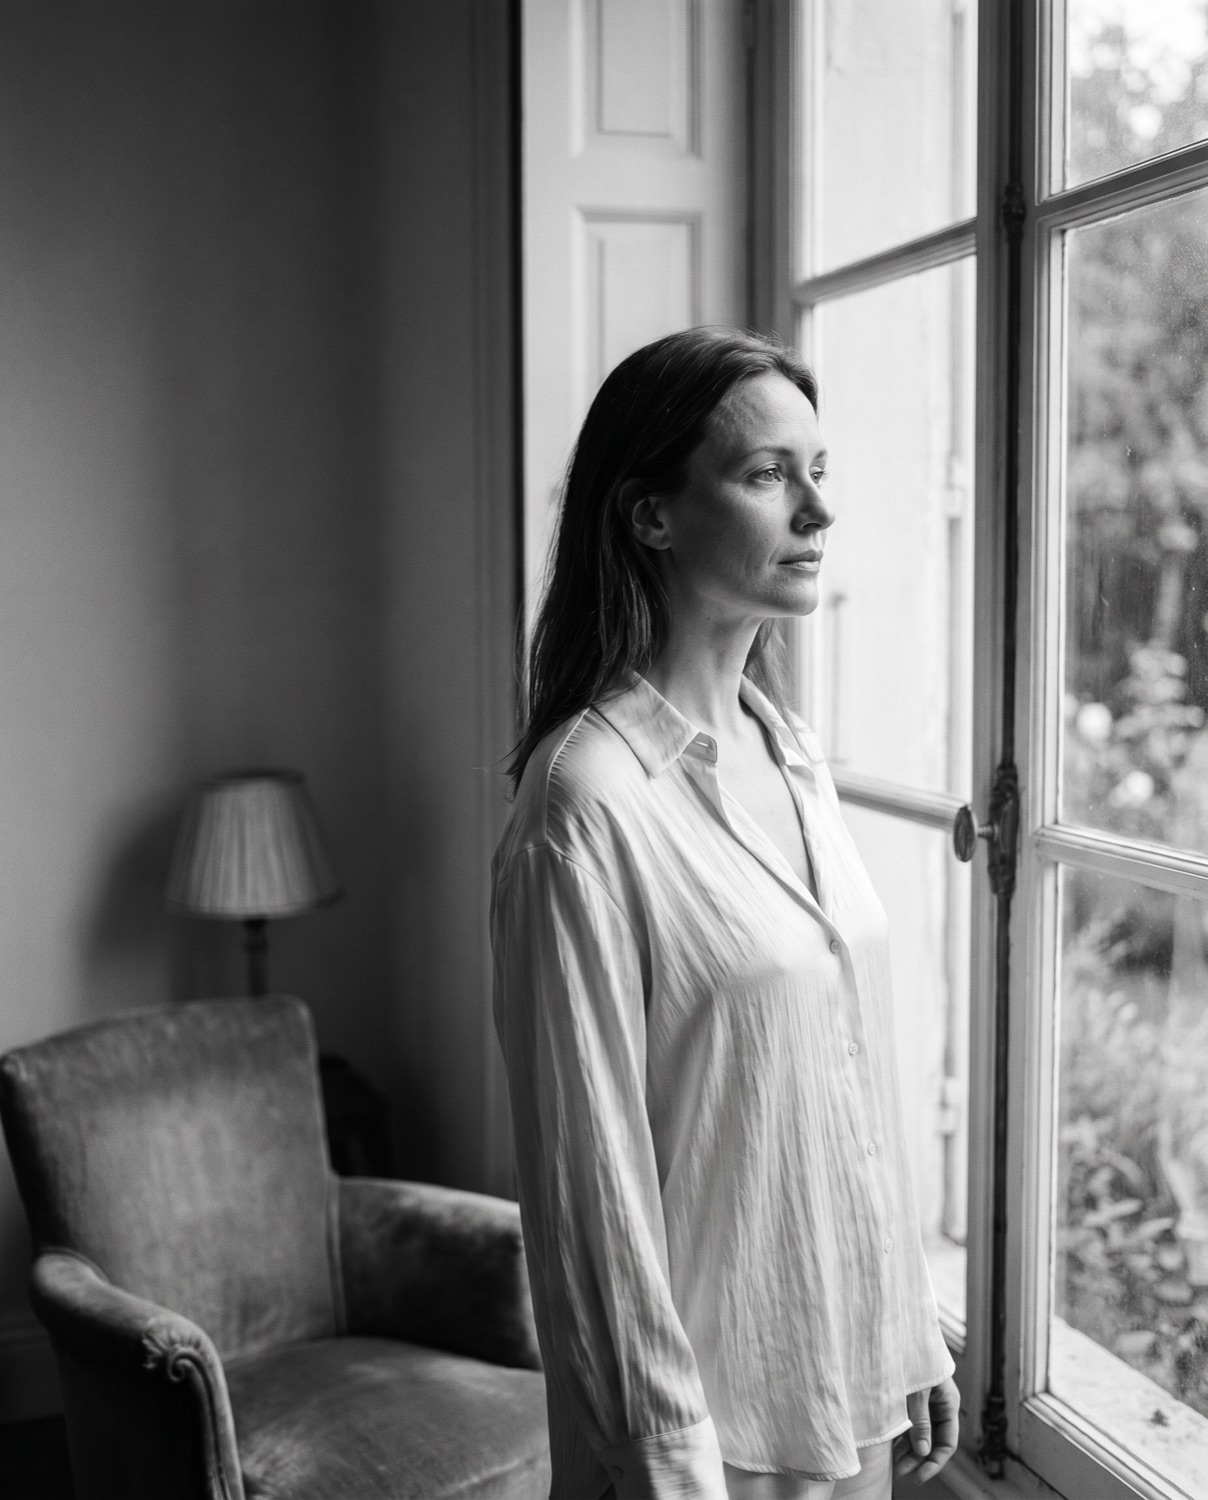
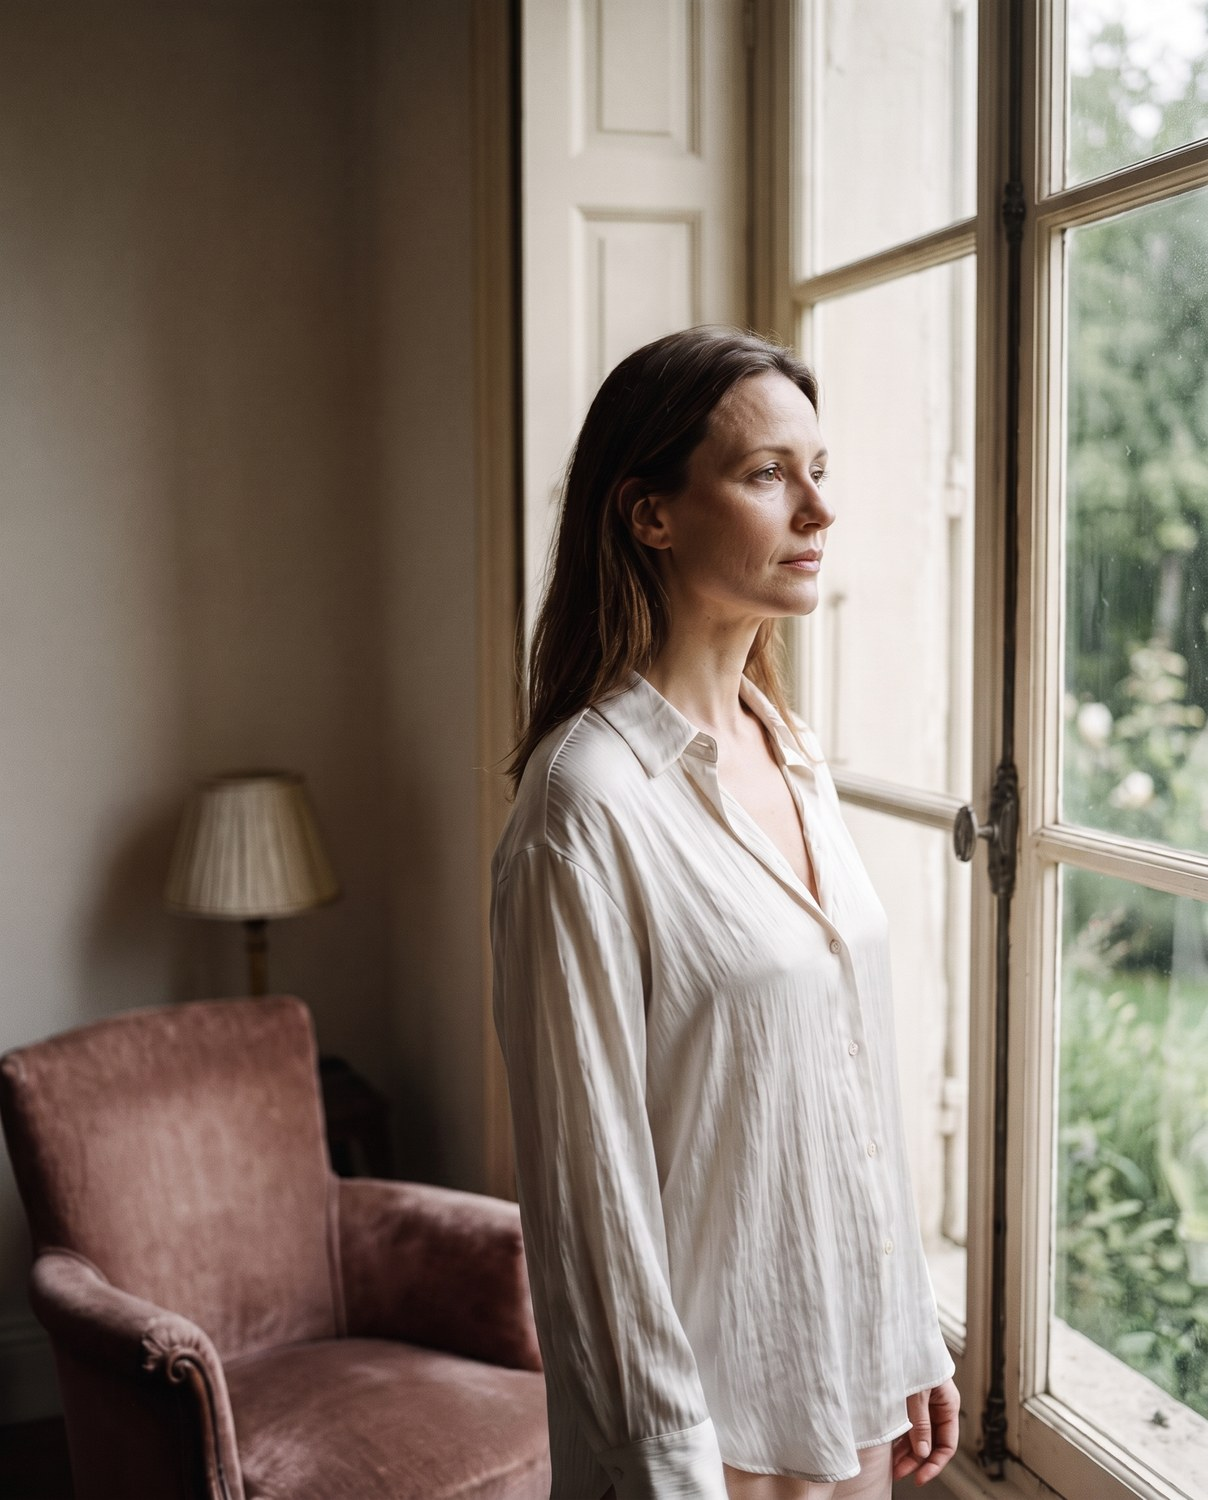
Rhinoplasty: colour hero + light hero theme + colourised photos
- Wire in the colour Mr Hagen hero (subject right, text space left) and
  convert the hero + header to a light treatment (dark text/logo, light
  overlay, single-column hero bullets)
- Swap Suitability, Meet and Exam section photos to colourised versions
  (kept compositions; new filenames for the shared surgeon photos so the
  facelift page's B&W look is untouched)

Claude-Session: https://claude.ai/code/session_01YKkpd85ueaQwSE6AP1dj2S

diff --git a/site/rhinoplasty.html b/site/rhinoplasty.html
@@ -507,13 +507,48 @@ footer{background:#100e0c;color:#cfc8bd;padding:clamp(3.5rem,6vw,5.5rem) var(--p
   .creds-row{gap:1.8rem 1.4rem}
   .cred{flex:1 1 38%}
 }
+
+/* ---------- light hero + header (rhinoplasty) ---------- */
+header:not(.scrolled) nav.main a.navlink{color:var(--text)}
+header:not(.scrolled) nav.main a.navlink:hover{color:var(--ink)}
+header:not(.scrolled) .header-phone{color:var(--ink)}
+header:not(.scrolled) .header-phone svg{stroke:var(--accent-d)}
+header:not(.scrolled) .header-cta{color:var(--ink);border-color:rgba(20,18,15,.35)}
+header:not(.scrolled) .burger span{background:var(--ink)}
+header:not(.scrolled) .hicon{color:var(--ink)}
+header.scrolled{background:rgba(245,241,234,.95);box-shadow:0 1px 0 rgba(20,18,15,.08)}
+header.scrolled nav.main a.navlink{color:var(--text)}
+header.scrolled nav.main a.navlink:hover{color:var(--ink)}
+header.scrolled .header-phone{color:var(--ink)}
+header.scrolled .header-cta{color:var(--ink);border-color:rgba(20,18,15,.35)}
+header.scrolled .header-cta:hover{background:var(--ink);color:#fff}
+header.scrolled .burger span{background:var(--ink)}
+header.scrolled .hicon{color:var(--ink)}
+.hero{background:var(--bg);color:var(--text)}
+.hero-bg img{object-position:78% center;opacity:1}
+.hero-bg::after{background:linear-gradient(90deg,rgba(245,241,234,.96) 0%,rgba(245,241,234,.72) 34%,rgba(245,241,234,.12) 60%,rgba(245,241,234,0) 80%)}
+.hero-eyebrow{color:var(--accent-d)}
+.hero-eyebrow::before{background:var(--accent-d)}
+.hero h1{color:var(--ink)}
+.hero h1 em{color:var(--accent-d)}
+.hero-points{grid-template-columns:1fr;max-width:33ch}
+.hero-points li{color:var(--text)}
+.hero-points svg{stroke:var(--accent-d)}
+.hero-rating .rs{color:var(--muted)}
+.hero-rating .rs b{color:var(--ink)}
+.realself-word{color:var(--ink)}
+.realself-word i{color:var(--accent-d)}
+.stars{color:#e0a63a}
+.hero .btn-ghost-light{border-color:var(--ink);color:var(--ink)}
+.hero .btn-ghost-light:hover{background:var(--ink);color:#fff}
+.hero-ba{display:none}
 </style>
 </head>
 <body>
 
 <!-- ============ HEADER ============ -->
 <header id="header">
-  <a href="#top" class="logo"><img src="images/adore-white.png" alt="Adore Life · Hagen Schumacher Plastic Surgeon" /></a>
+  <a href="#top" class="logo"><img src="images/adore-ink.png" alt="Adore Life · Hagen Schumacher Plastic Surgeon" /></a>
   <nav class="main">
     <a class="navlink" href="#approach">Approach</a>
     <a class="navlink" href="#results">Results</a>
@@ -545,7 +580,7 @@ footer{background:#100e0c;color:#cfc8bd;padding:clamp(3.5rem,6vw,5.5rem) var(--p
 
 <!-- ============ HERO ============ -->
 <section class="hero" id="top">
-  <div class="hero-bg"><img src="images/web/hero-camera.jpg" alt="Mr Hagen Schumacher, consultant plastic surgeon" /></div>
+  <div class="hero-bg"><img src="images/web/hero-hagen.jpg" alt="Mr Hagen Schumacher, consultant plastic surgeon" /></div>
   <div class="hero-inner">
     <span class="eyebrow hero-eyebrow">Rhinoplasty · London &amp; Cambridge</span>
     <h1>Rhinoplasty that refines your profile <em>and keeps you looking like you.</em></h1>
@@ -759,8 +794,8 @@ footer{background:#100e0c;color:#cfc8bd;padding:clamp(3.5rem,6vw,5.5rem) var(--p
 <section class="section meet" id="surgeon">
   <div class="wrap split">
     <div class="meet-imgs reveal">
-      <img class="main" src="images/web/meet.jpg" alt="Mr Hagen Schumacher at his consulting desk" />
-      <div class="inset"><img src="images/web/exam.jpg" alt="Mr Schumacher assessing a patient's nose" /></div>
+      <img class="main" src="images/web/meet-c.jpg" alt="Mr Hagen Schumacher at his consulting desk" />
+      <div class="inset"><img src="images/web/exam-c.jpg" alt="Mr Schumacher assessing a patient's nose" /></div>
     </div>
     <div class="meet-body reveal">
       <span class="eyebrow">Your surgeon</span>
@@ -815,7 +850,7 @@ footer{background:#100e0c;color:#cfc8bd;padding:clamp(3.5rem,6vw,5.5rem) var(--p
 <section class="section expect">
   <div class="wrap split">
     <div class="expect-img reveal">
-      <img src="images/web/exam.jpg" alt="Mr Schumacher in consultation" />
+      <img src="images/web/exam-c.jpg" alt="Mr Schumacher in consultation" />
     </div>
     <div class="reveal">
       <span class="eyebrow">Your journey</span>